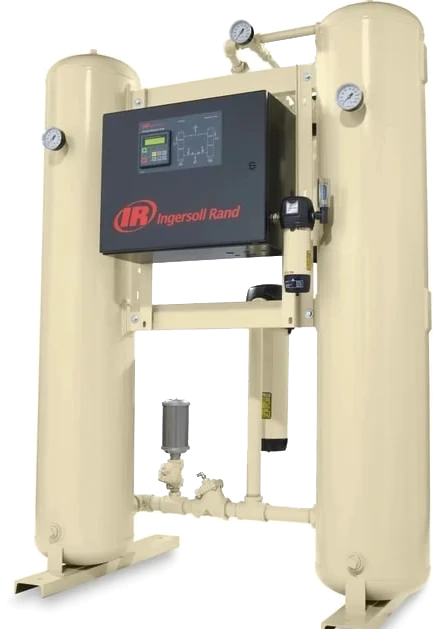
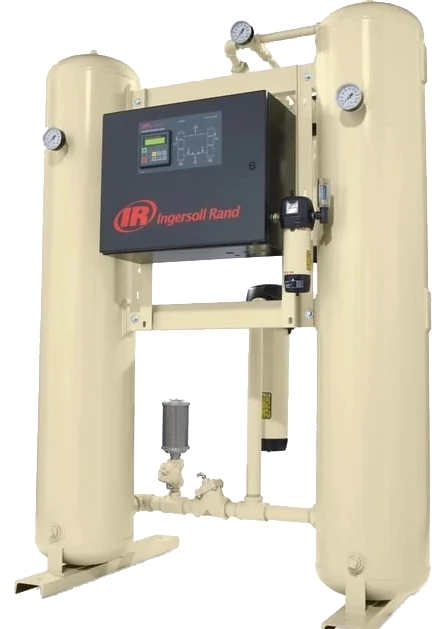
Simplify opening screen and finish dryer cut-out
- Opening screen: only the TecAr logo with a short, vibrant red glow
  rising from behind it; rays, rings and loading bar removed.
- Adsorption dryer: redo the cut-out from the original photo. Neutral
  grey/white connected to the background (floor shadow under the feet)
  and enclosed white pockets (inside the top pipe loop) are removed;
  the three gauge dials are protected. The home hero image is now a
  crop of the same cut-out.

Claude-Session: https://claude.ai/code/session_011U6MAdre8zitji7rgwmJuN

diff --git a/app/src/tecar-corporate.css b/app/src/tecar-corporate.css
@@ -695,81 +695,51 @@ html.cx-motion .tc-editorial .ap[data-reveal] .ap-grid > * { opacity: 1; transfo
 }
 
 /* ============================================================ OPENING SCREEN */
-/* See src/components/splash.tsx. CSS-driven so it leaves even without JS. */
+/* See src/components/splash.tsx. CSS-driven so it leaves even without JS.
+   Only the logo, with a short vibrant red glow rising from behind it. */
 .tc-splash {
-  --sp-red: #d71920;
-  --sp-red-light: #ec3a40;
   position: fixed;
   z-index: 1000;
   inset: 0;
   display: grid;
-  /* fixed track: the oversized ray layer must not stretch it, so every layer stays centred */
+  /* fixed track so every layer stays centred */
   grid-template: 100% / 100%;
   place-items: center;
   overflow: hidden;
   background: #ffffff;
   pointer-events: none;
-  animation: tc-splash-out .38s cubic-bezier(.65, 0, .35, 1) 1.32s forwards;
+  animation: tc-splash-out .4s cubic-bezier(.65, 0, .35, 1) 1.3s forwards;
 }
 .tc-splash > * { grid-area: 1 / 1; }
 html.tc-splash-off .tc-splash { display: none; }
 
+/* soft bloom sitting behind the logo */
 .tc-splash-glow {
-  width: min(78vmin, 640px);
-  aspect-ratio: 1;
+  width: min(52vw, 340px);
+  aspect-ratio: 2 / 1;
   border-radius: 50%;
-  background: radial-gradient(circle, rgba(236, 58, 64, .34) 0%, rgba(215, 25, 32, .12) 38%, rgba(215, 25, 32, 0) 68%);
+  background: radial-gradient(closest-side, rgba(255, 36, 44, .55), rgba(255, 36, 44, .18) 55%, rgba(255, 36, 44, 0));
+  filter: blur(14px);
   opacity: 0;
-  transform: scale(.4);
-  animation: tc-splash-glow 1.3s cubic-bezier(.22, .8, .2, 1) .12s forwards;
+  transform: scale(.55);
+  animation: tc-splash-glow 1.15s cubic-bezier(.22, .8, .2, 1) .22s forwards;
 }
-/* light rays: thin red spokes masked into a ring around the logo */
-.tc-splash-rays {
-  width: 180vmax;
-  aspect-ratio: 1;
-  background: repeating-conic-gradient(from 0deg, rgba(215, 25, 32, 0) 0deg 5deg, rgba(215, 25, 32, .2) 6deg 7deg, rgba(215, 25, 32, 0) 8deg 12deg);
-  -webkit-mask-image: radial-gradient(circle, transparent 0 7%, #000 11%, rgba(0, 0, 0, .5) 22%, transparent 34%);
-  mask-image: radial-gradient(circle, transparent 0 7%, #000 11%, rgba(0, 0, 0, .5) 22%, transparent 34%);
-  opacity: 0;
-  transform: scale(.35) rotate(-18deg);
-  animation: tc-splash-rays 1.4s cubic-bezier(.22, .8, .2, 1) .18s forwards;
-}
-.tc-splash-ring {
-  width: min(40vmin, 320px);
-  aspect-ratio: 1;
-  border: 2px solid var(--sp-red-light);
-  border-radius: 50%;
-  opacity: 0;
-  animation: tc-splash-ring 1s cubic-bezier(.22, .8, .2, 1) .28s forwards;
-}
-.tc-splash-ring--late { border-width: 1px; animation-delay: .52s; }
 .tc-splash-logo {
   position: relative;
   width: min(62vw, 300px);
   height: auto;
   opacity: 0;
-  transform: scale(.92);
-  filter: drop-shadow(0 0 0 rgba(215, 25, 32, 0));
-  animation: tc-splash-logo .7s cubic-bezier(.22, .8, .2, 1) .05s forwards;
+  transform: scale(.96);
+  filter: drop-shadow(0 0 0 rgba(255, 36, 44, 0));
+  animation: tc-splash-logo 1.2s cubic-bezier(.22, .8, .2, 1) .05s forwards;
 }
-.tc-splash-bar {
-  align-self: end;
-  width: min(44vw, 180px);
-  height: 2px;
-  margin-bottom: clamp(56px, 14vh, 120px);
-  overflow: hidden;
-  background: #ecebe7;
-}
-.tc-splash-bar i { display: block; height: 100%; background: var(--sp-red); transform: scaleX(0); transform-origin: left; animation: tc-splash-bar 1.2s cubic-bezier(.65, 0, .35, 1) .1s forwards; }
 
-@keyframes tc-splash-glow { 40% { opacity: 1; transform: scale(1); } to { opacity: .55; transform: scale(1.15); } }
-@keyframes tc-splash-rays { 35% { opacity: 1; } to { opacity: .35; transform: scale(1) rotate(10deg); } }
-@keyframes tc-splash-ring { 15% { opacity: .8; } to { opacity: 0; transform: scale(3.2); } }
+@keyframes tc-splash-glow { 45% { opacity: 1; transform: scale(1.08); } to { opacity: .35; transform: scale(1); } }
 @keyframes tc-splash-logo {
-  60% { opacity: 1; transform: scale(1.02); filter: drop-shadow(0 0 18px rgba(215, 25, 32, .45)); }
-  to { opacity: 1; transform: none; filter: drop-shadow(0 0 6px rgba(215, 25, 32, .2)); }
+  35% { opacity: 1; transform: none; filter: drop-shadow(0 0 0 rgba(255, 36, 44, 0)); }
+  60% { opacity: 1; transform: none; filter: drop-shadow(0 0 16px rgba(255, 36, 44, .75)); }
+  to { opacity: 1; transform: none; filter: drop-shadow(0 0 6px rgba(255, 36, 44, .3)); }
 }
-@keyframes tc-splash-bar { to { transform: scaleX(1); } }
 @keyframes tc-splash-out { to { opacity: 0; visibility: hidden; } }
 
 @media (prefers-reduced-motion: reduce) { .tc-splash { display: none; } }

diff --git a/app/src/components/splash.tsx b/app/src/components/splash.tsx
@@ -1,8 +1,8 @@
 import { useState } from "react";
 
 /*
- * Opening screen: white field, TecAr logo with red light bursting behind it
- * and a short loading bar (~1.7 s in total).
+ * Opening screen: white field and the TecAr logo with a short, vibrant red
+ * glow rising from behind it (~1.7 s in total).
  *
  * - Rendered in the server HTML and driven by CSS only, so it paints with the
  *   first frame and still leaves if JavaScript fails. The page content is
@@ -24,10 +24,6 @@ export function Splash() {
     onAnimationEnd={(event) => { if (event.target === event.currentTarget) setDone(true); }}
   >
     <div className="tc-splash-glow" />
-    <div className="tc-splash-rays" />
-    <div className="tc-splash-ring" />
-    <div className="tc-splash-ring tc-splash-ring--late" />
     <img className="tc-splash-logo" src="/assets/tecar/logo-splash.webp" alt="" width="560" height="301" decoding="async" fetchPriority="high" />
-    <div className="tc-splash-bar"><i /></div>
   </div>;
 }
